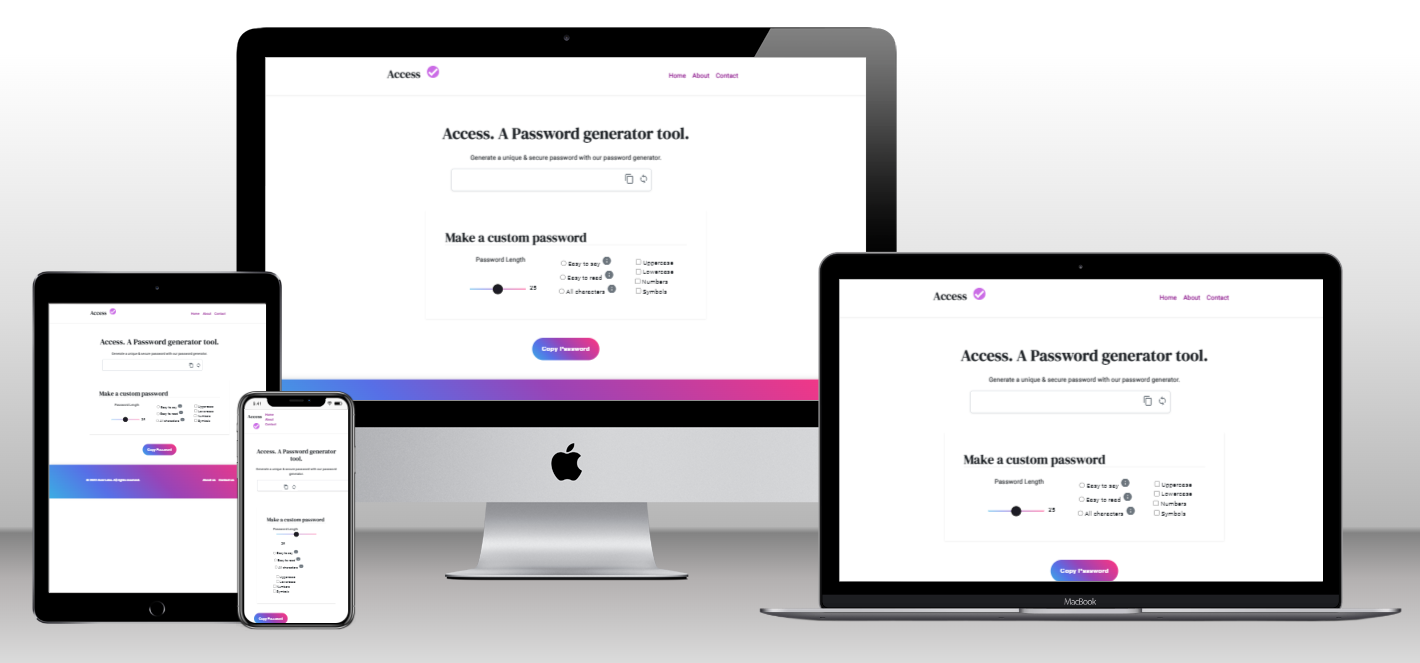
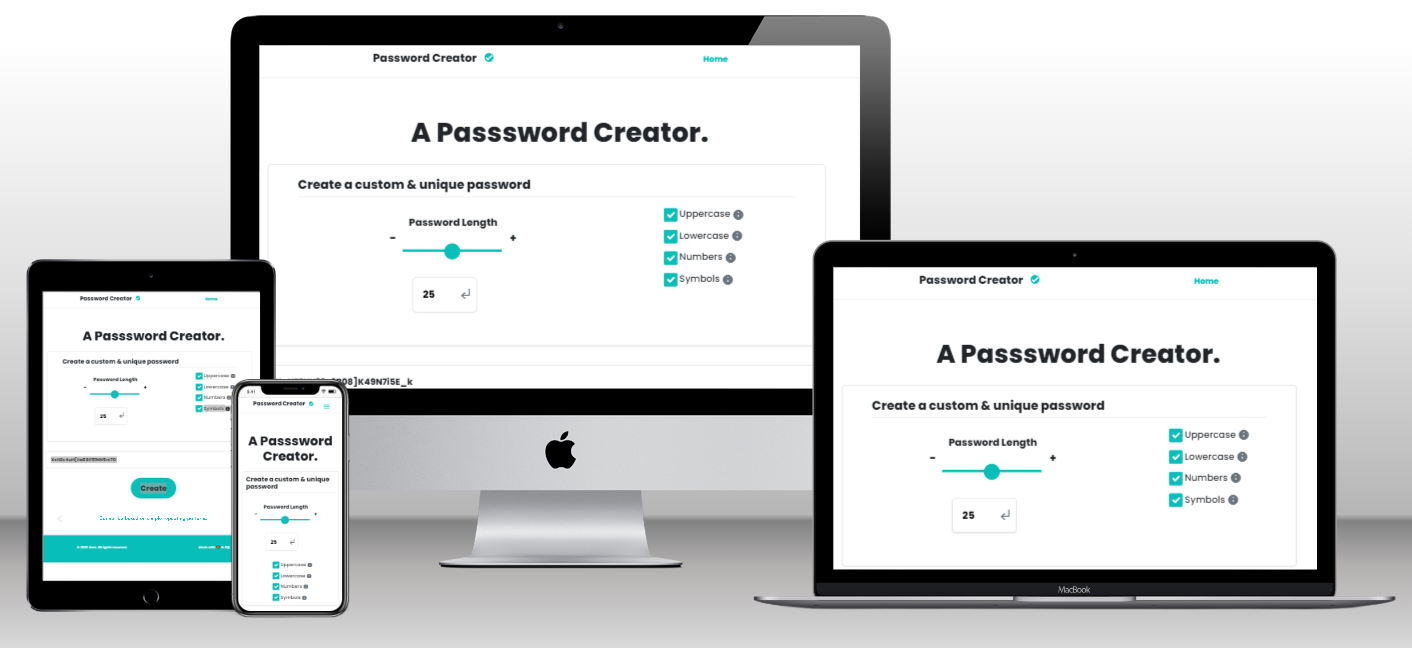
Update README.md file

diff --git a/README.md b/README.md
@@ -1,4 +1,4 @@
-# Access
+# Password Creator
 
 > A password generator that generates random &amp; unique passwords for those trying to find one.
 
@@ -17,7 +17,7 @@
 
 ## Live Demo
 
-[Live Demo Link from ./dist/index.html](https://raw.githack.com/chelmerrox/access/page-structure/dist/index.html)
+[Live Demo Link from ./dist/index.html](https://raw.githack.com/chelmerrox/password-creator/page_structure/dist/index.html)
 
 ## Getting Started
 
@@ -41,13 +41,13 @@ From the command line, do the following steps below:
 
 ```bash
 # Clone this repository
-$ git clone git@github.com:chelmerrox/access.git
+$ git clone git@github.com:chelmerrox/password-creator.git
 
 ```
 2. Change directory/Go into the repository with the command below.
 
 ```bash
-$ cd access
+$ cd password-creator
 
 ```
 
@@ -77,7 +77,7 @@ $ npm start
 
 Contributions, issues, and feature requests are welcome!
 
-Feel free to check the [issues page](https://github.com/chelmerrox/access/issues).
+Feel free to check the [issues page](https://github.com/chelmerrox/password-creator/issues).
 
 ## Show your support
 
